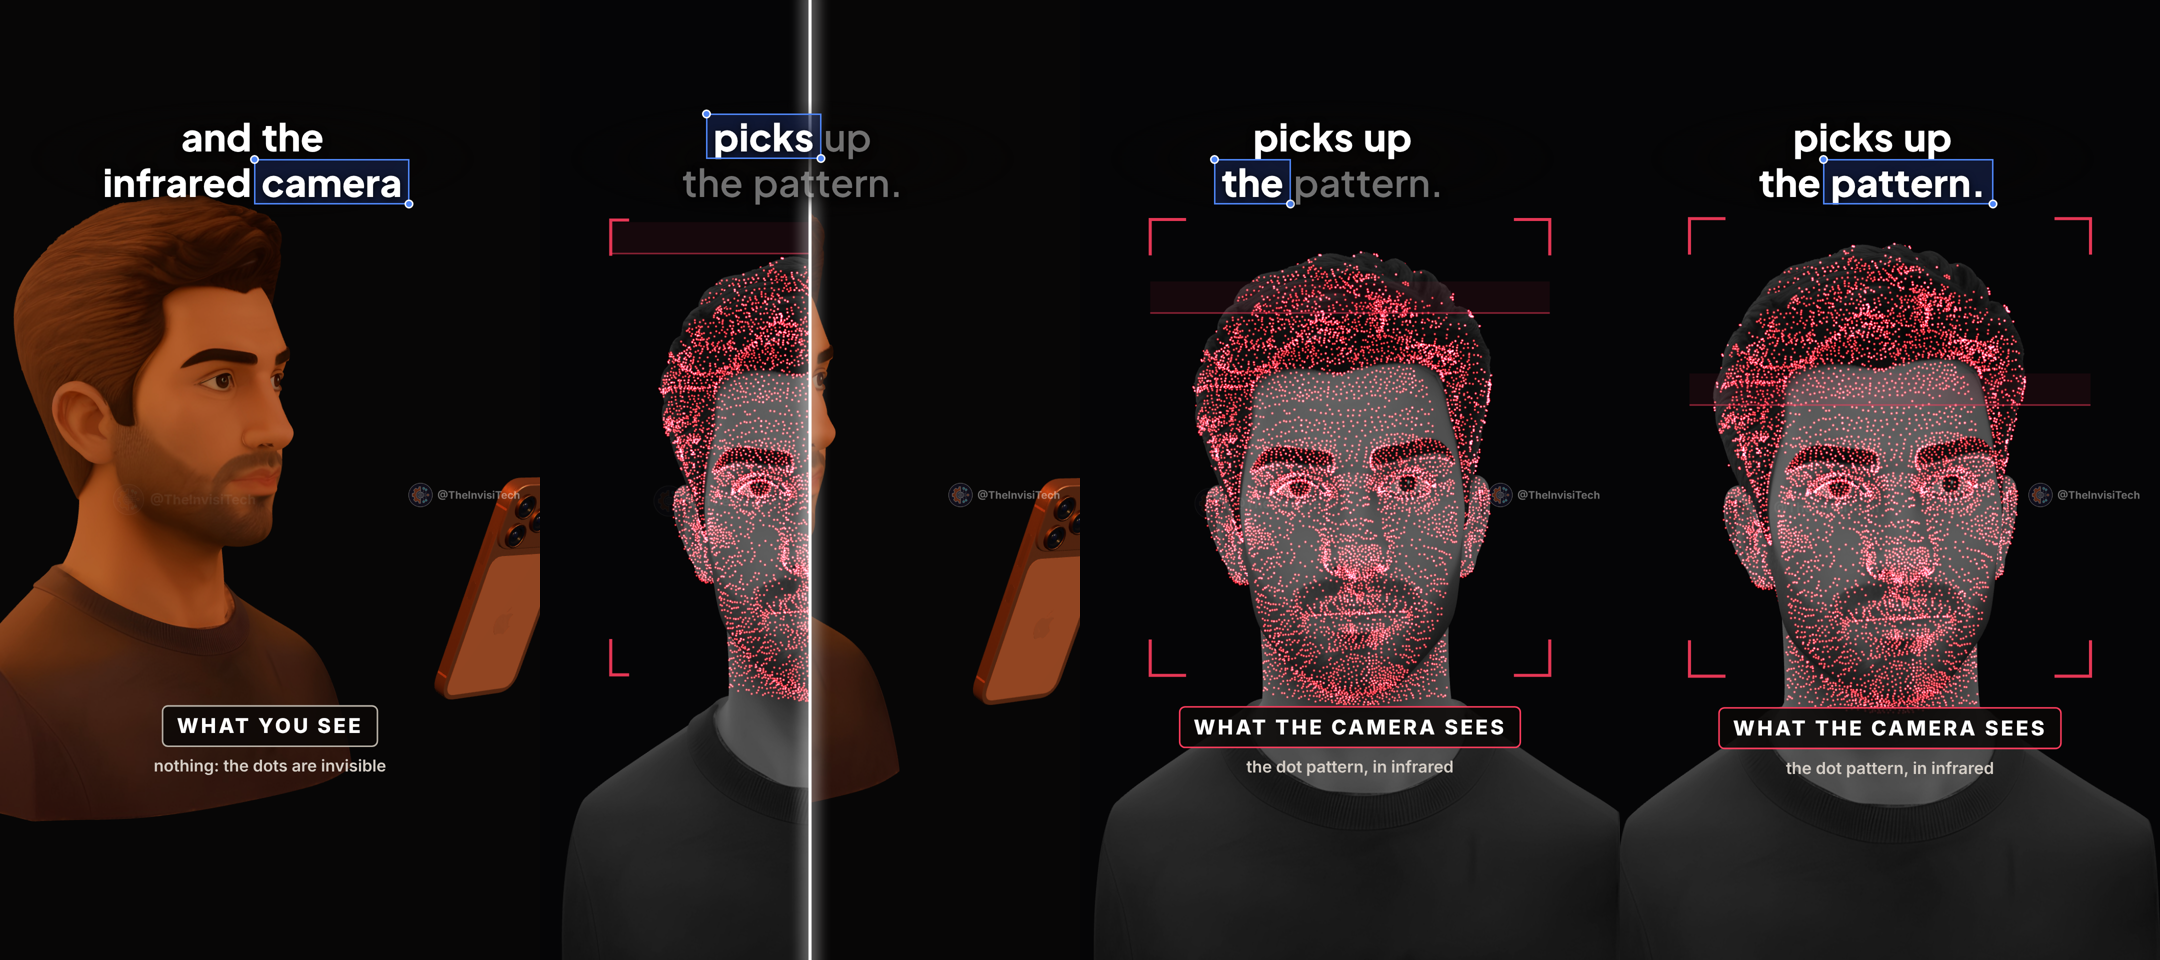
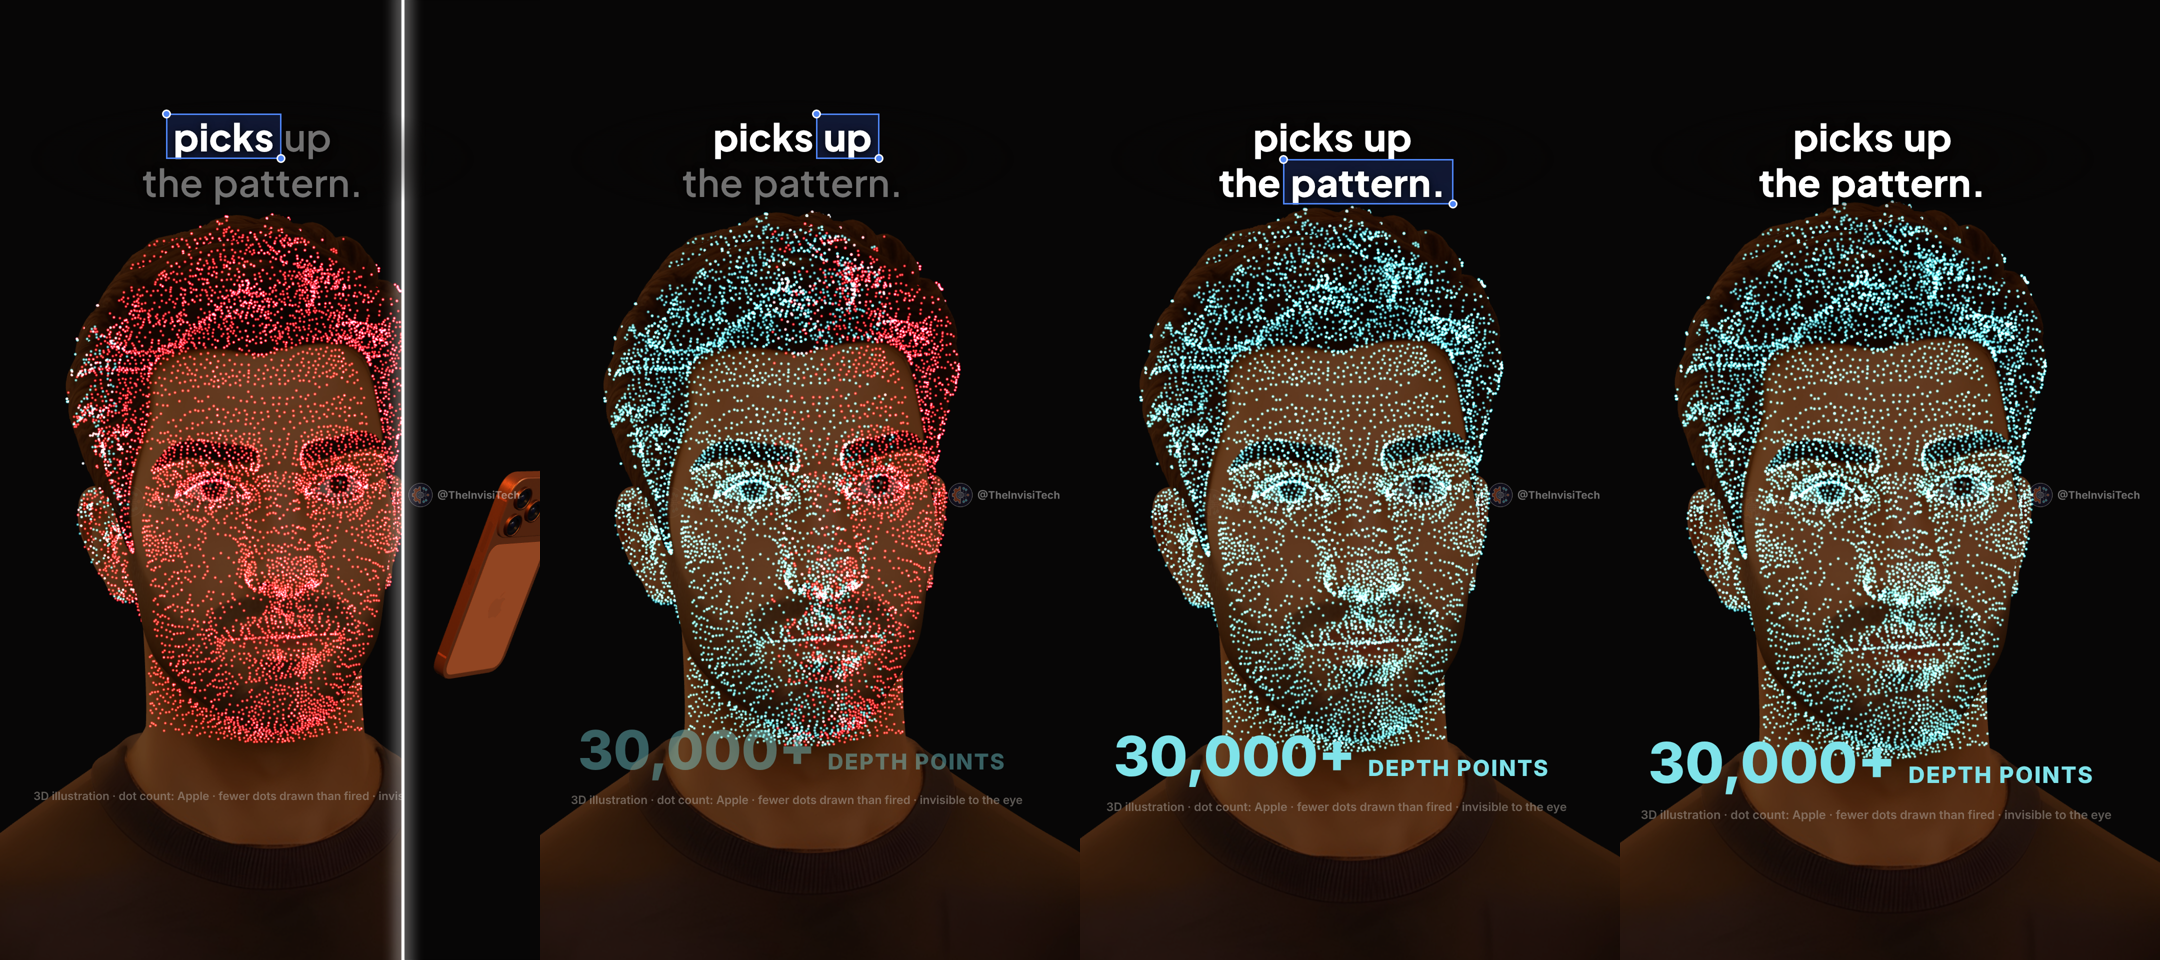
Camera view uses the front-on dotted head with the dots turning cyan
Claude-Session: https://claude.ai/code/session_01GXcKc5WnFrVWBsHLe8YpAy

diff --git a/face-id/mirror-short/src/scenes/Scan.tsx b/face-id/mirror-short/src/scenes/Scan.tsx
@@ -186,19 +186,11 @@ const SeeBadge: React.FC<{ ir: boolean; o: number }> = ({ ir, o }) => (
 );
 // What the camera sees is its own shot, not the side view again: we look out of the phone's infrared camera, straight at
 // his face, in grey, with the dot pattern on it. A viewfinder frame, a sweep line and a slow push keep it moving.
-const CamView: React.FC<{ c: number }> = ({ c }) => {
-  const io = (x: number) => x * x * (3 - 2 * x), push = ramp(c, 0, 90, 0, 1, io), L = 34, y = 460 + ((c * 9) % 870);
-  const overlay = () => (
-    <svg width={1080} height={1920} style={{ position: 'absolute', inset: 0 }}>
-      <g stroke={C.ir} strokeWidth={6} fill="none" opacity={0.9}>
-        {[[150, 450, 1, 1], [930, 450, -1, 1], [150, 1340, 1, -1], [930, 1340, -1, -1]].map(([x, yy, dx, dy], k) => <path key={k} d={`M ${x + dx * 70 - dx * L * (1 - ramp(c, 6, 16))} ${yy} H ${x} V ${yy + dy * 70}`} />)}
-      </g>
-      <rect x={150} y={y} width={780} height={3} fill={C.ir} opacity={0.55} />
-      <rect x={150} y={y - 60} width={780} height={60} fill={C.ir} opacity={0.07} />
-    </svg>
-  );
-  return <Orbit3D g={150} ex={{ view: { az: 10 - 20 * push, dist: 2150 - 260 * push }, tone: 'ir', tint: '#8a8a8a', dotO: 1, bg: '#050506', overlay }} />;
-};
+const CamView: React.FC<{ c: number }> = ({ c }) => (
+  // the front-on dotted head, shown as it is: the red dots turn cyan left to right as the camera reads them, with the
+  // "30,000+ DEPTH POINTS" count. A slow push keeps it moving.
+  <AbsoluteFill style={{ transformOrigin: '540px 900px', transform: `scale(${1 + 0.07 * ramp(c, 0, 90)})` }}><Orbit3D g={150} cyan={Math.max(0, c - 6)} align /></AbsoluteFill>
+);
 export const ScanA: React.FC = () => {
   const s = useCurrentFrame(), t = s - CUE_A.front;
   if (t < 0) return <Orbit3D g={s} />;
@@ -212,7 +204,6 @@ export const ScanA: React.FC = () => {
       {w2 > 0 && <AbsoluteFill style={clip(w2)}><CamView c={t - CUE_A.cam} /></AbsoluteFill>}
       {[w1, w2].map((w, k) => w > 0 && w < 1 ? <div key={k} style={{ position: 'absolute', left: 1080 * w - 3, top: 0, width: 6, height: 1920, background: '#fff', boxShadow: '0 0 30px 8px rgba(255,255,255,.55)' }} /> : null)}
       <SeeBadge ir={false} o={ramp(t, 8, 13) * (1 - ramp(t, CUE_A.cam, CUE_A.cam + 5))} />
-      <SeeBadge ir o={ramp(t, CUE_A.cam + 7, CUE_A.cam + 12)} />
     </AbsoluteFill>
   );
 };
